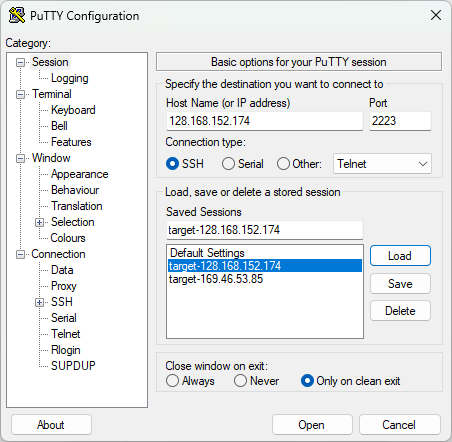
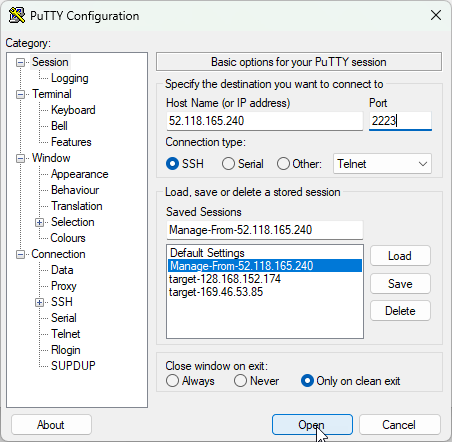
update preparation

diff --git a/preparation/ssh-with-putty.md b/preparation/ssh-with-putty.md
@@ -30,42 +30,48 @@ To download putty, [here](https://www.putty.org/)
  
 6. Close PuTTYgen
 
-7. Launch PuTTY
+7. Check IP Address for the "Manage-From" host.
 
-8. Enter IP Address of your "Target" host and use port 2223.
-   Eneter "target-\<YOUR Target IP Address\>" in "Saved Sessions"
+<picture>
+  <img alt="image" src="./assets/images/manageFromIP.png">
+</picture>
+
+8. Launch PuTTY
+
+9. Enter IP Address of your "Manage-From" host and use port 2223.
+   Enter "Manage-From-\<YOUR Manage-From IP Address\>" in "Saved Sessions"
 
 <picture>
   <img alt="image" src="./assets/images/puttyConfig1.png">
 </picture>
 
-9.Now, need to set the converted SSH key from PuTTYgen.
+10.Now, need to set the converted SSH key from PuTTYgen.
   On the left panel, navigate to Connection-\>SSH-\>Auth-\>Credentials
 
 <picture>
   <img alt="image" src="./assets/images/setPrivateKey.png">
 </picture>
 
-10. Browse and select your save private key "Target-puttySSHkey".
+11. Browse and select your save private key "Manage-From-puttySSHkey".
    Same for both "Private key" and "Certificate" enteries.
 
 <picture>
   <img alt="image" src="./assets/images/selectAndOpenPPK.png">
 </picture>
 
-11. Navigate to "Session" on the left panel and click "Save"
+12. Navigate to "Session" on the left panel and click "Save"
 
 <picture>
   <img alt="image" src="./assets/images/saveSession.png">
 </picture>
 
-12. Click "Open", a terminal will be open. Enter "itzuser" on login as.
+13. Click "Open", a terminal will be open. Enter "itzuser" on login as.
 
 <picture>
   <img alt="image" src="./assets/images/login.png">
 </picture>
 
 
-13. Repeat steps 1-11 for another VM, the Instana Server, using "Server-ssh-key.pem".
+14. Repeat steps 1-11 for another VM, the Instana Server, using "Server-ssh-key.pem".
 
 
